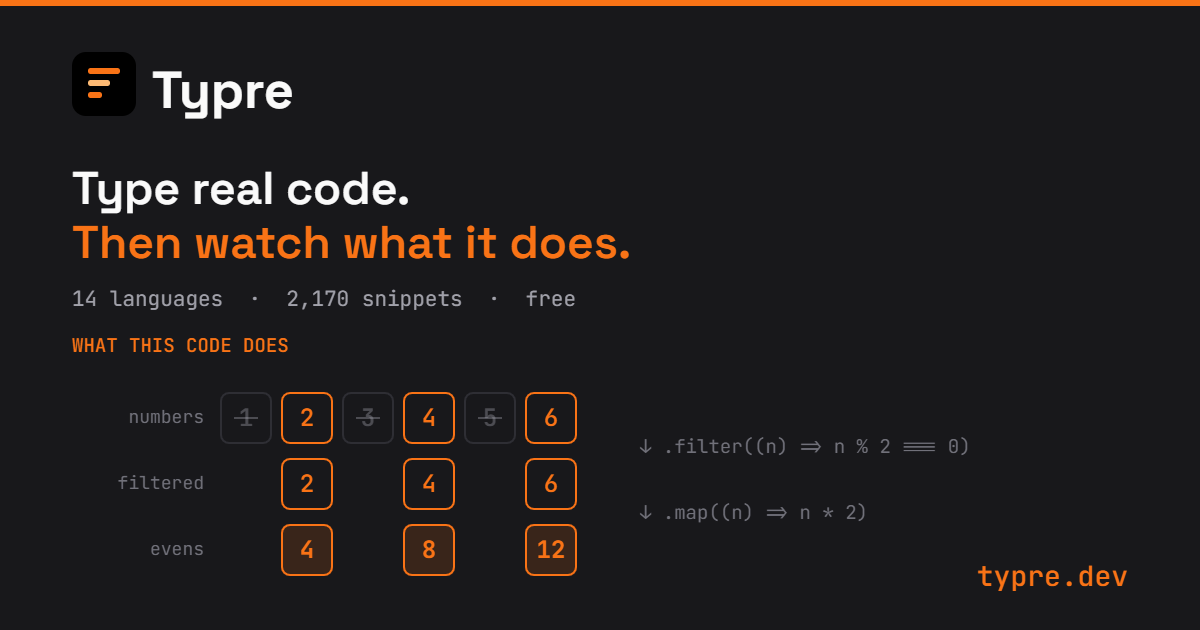
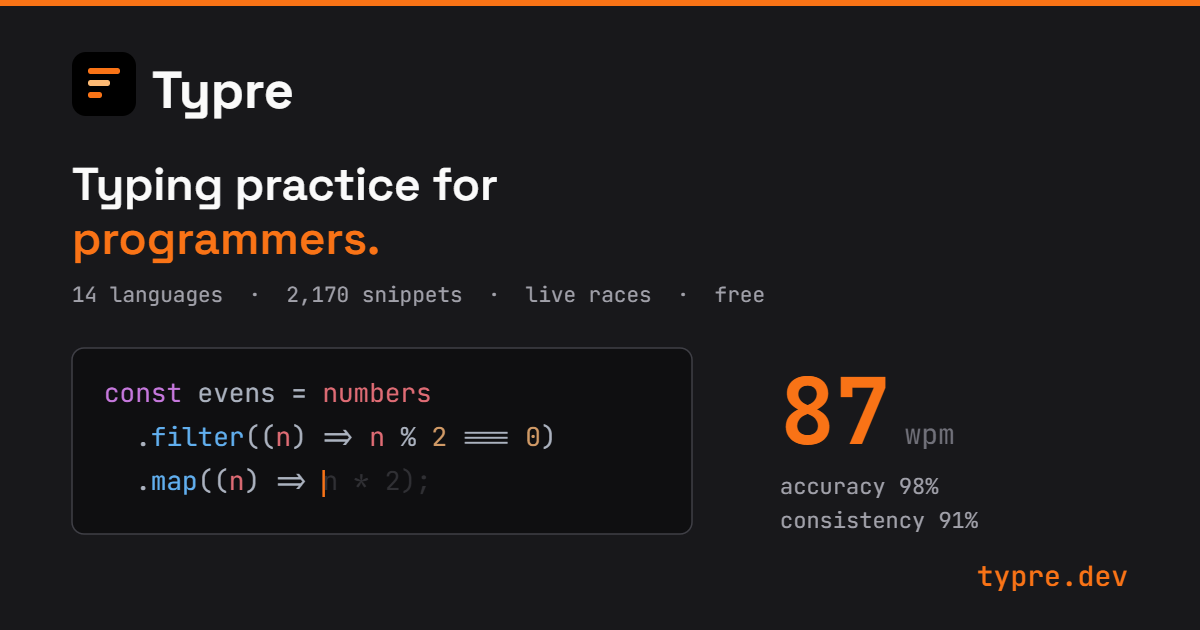
Ảnh chia sẻ link: vẽ đúng thứ app có
Bản trước vẽ hoạt hình "code này làm gì" và tiêu đề "Then watch what it does" —
tính năng đó đã bị bỏ, nên ảnh thành quảng cáo sai: người click vào thấy khác
ảnh, còn tệ hơn là không có ảnh.

Giờ ảnh vẽ vùng gõ code đang gõ DỞ — phần chưa gõ để mờ và xám, có con trỏ cam,
màu syntax theo One Dark Pro (theme mặc định của app) — kèm các số của bảng kết
quả. Ảnh tĩnh mà vẫn nói được "đang gõ" chứ không phải một đoạn code nằm im.

Tiêu đề đổi sang khác biệt thật và còn tồn tại: các trang luyện gõ khác cho gõ
văn xuôi, ở đây gõ code thật.

Ghi luôn quy tắc vào đầu scripts/og-builder.html: chỉ vẽ thứ app THẬT SỰ có.

diff --git a/scripts/og-builder.html b/scripts/og-builder.html
@@ -18,6 +18,9 @@
       Nằm ở scripts/ chứ không phải public/: dev server của Vite vẫn phục vụ file trong
       thư mục gốc, nhưng bản build production thì không mang theo — không để lọt một
       trang lạ lên typre.dev cho Google lập chỉ mục.
+
+      QUY TẮC DUY NHẤT khi sửa ảnh này: chỉ vẽ thứ app THẬT SỰ có. Bản trước từng quảng
+      cáo một tính năng đã bị bỏ, người click vào thấy khác ảnh — tệ hơn là không có ảnh.
     -->
     <link rel="preconnect" href="https://fonts.googleapis.com" />
     <link rel="preconnect" href="https://fonts.gstatic.com" crossorigin />
@@ -58,12 +61,18 @@
       const ORANGE = '#f97316'
       const ORANGE_SOFT = '#fdba74'
       const BG = '#18181b'
+      const CODE_BG = '#0f0f11'
       const ZINC_400 = '#a1a1aa'
       const ZINC_500 = '#71717a'
-      const ZINC_600 = '#52525b'
+      const ZINC_700 = '#3f3f46'
 
-      const CELL = 52
-      const GAP = 9
+      // Bảng màu One Dark Pro — đúng theme mặc định của app, để ảnh trông như ảnh chụp
+      // thật chứ không phải hình vẽ lại.
+      const KW = '#c678dd'
+      const FN = '#61afef'
+      const VAR = '#e06c75'
+      const NUM = '#d19a66'
+      const PUNCT = '#abb2bf'
 
       function roundRect(ctx, x, y, w, h, r) {
         ctx.beginPath()
@@ -92,54 +101,68 @@
       }
 
       /**
-       * Một ô của hoạt hình. `tone`: idle | keep | result | drop.
-       * `drop` có gạch ngang — chính chỗ này cho người xem hiểu đây là code ĐANG chạy,
-       * không phải ảnh chụp một giao diện tĩnh.
+       * Bài đang gõ dở. `t: false` = chưa gõ tới.
+       *
+       * Phần chưa gõ để mờ và xám, phần đã gõ giữ màu syntax — đúng cách app hiển thị,
+       * và cũng là cách duy nhất để một ảnh TĨNH nói được "đang gõ", không phải ảnh
+       * chụp một đoạn code nằm im.
        */
-      function drawCell(ctx, x, y, text, tone) {
-        const stroke = tone === 'idle' || tone === 'drop' ? ZINC_600 : ORANGE
-        ctx.globalAlpha = tone === 'drop' ? 0.38 : 1
+      const CODE_LINES = [
+        [
+          { s: 'const', c: KW, t: true },
+          { s: ' evens = ', c: PUNCT, t: true },
+          { s: 'numbers', c: VAR, t: true },
+        ],
+        [
+          { s: '  .', c: PUNCT, t: true },
+          { s: 'filter', c: FN, t: true },
+          { s: '((', c: PUNCT, t: true },
+          { s: 'n', c: VAR, t: true },
+          { s: ') => ', c: PUNCT, t: true },
+          { s: 'n', c: VAR, t: true },
+          { s: ' % ', c: PUNCT, t: true },
+          { s: '2', c: NUM, t: true },
+          { s: ' === ', c: PUNCT, t: true },
+          { s: '0', c: NUM, t: true },
+          { s: ')', c: PUNCT, t: true },
+        ],
+        [
+          { s: '  .', c: PUNCT, t: true },
+          { s: 'map', c: FN, t: true },
+          { s: '((', c: PUNCT, t: true },
+          { s: 'n', c: VAR, t: true },
+          { s: ') => ', c: PUNCT, t: true, caretAfter: true },
+          { s: 'n', c: VAR, t: false },
+          { s: ' * ', c: PUNCT, t: false },
+          { s: '2', c: NUM, t: false },
+          { s: ');', c: PUNCT, t: false },
+        ],
+      ]
 
-        if (tone === 'result') {
-          ctx.fillStyle = 'rgba(249,115,22,0.15)'
-          roundRect(ctx, x, y, CELL, CELL, 8)
-          ctx.fill()
-        }
+      function drawCode(ctx, x, y, lineHeight) {
+        ctx.font = '400 26px "JetBrains Mono", monospace'
+        ctx.textAlign = 'left'
+        ctx.textBaseline = 'alphabetic'
 
-        ctx.strokeStyle = stroke
-        ctx.lineWidth = 2
-        roundRect(ctx, x + 1, y + 1, CELL - 2, CELL - 2, 8)
-        ctx.stroke()
+        CODE_LINES.forEach((line, row) => {
+          let penX = x
+          const penY = y + row * lineHeight
 
-        ctx.fillStyle = tone === 'idle' || tone === 'drop' ? ZINC_400 : ORANGE
-        ctx.font = `${tone === 'result' ? 700 : 500} 24px "JetBrains Mono", monospace`
-        ctx.textAlign = 'center'
-        ctx.textBaseline = 'middle'
-        ctx.fillText(text, x + CELL / 2, y + CELL / 2 + 1)
+          for (const seg of line) {
+            ctx.globalAlpha = seg.t ? 1 : 0.34
+            ctx.fillStyle = seg.t ? seg.c : ZINC_500
+            ctx.fillText(seg.s, penX, penY)
+            penX += ctx.measureText(seg.s).width
 
-        if (tone === 'drop') {
-          ctx.strokeStyle = ZINC_400
-          ctx.lineWidth = 2
-          ctx.beginPath()
-          ctx.moveTo(x + 14, y + CELL / 2)
-          ctx.lineTo(x + CELL - 14, y + CELL / 2)
-          ctx.stroke()
-        }
+            if (seg.caretAfter) {
+              ctx.globalAlpha = 1
+              ctx.fillStyle = ORANGE
+              ctx.fillRect(penX, penY - 20, 2.5, 27)
+            }
+          }
+        })
 
         ctx.globalAlpha = 1
-      }
-
-      function drawLane(ctx, x, y, label, cells) {
-        ctx.fillStyle = ZINC_500
-        ctx.font = '400 18px "JetBrains Mono", monospace'
-        ctx.textAlign = 'right'
-        ctx.textBaseline = 'middle'
-        ctx.fillText(label, x - 16, y + CELL / 2)
-
-        cells.forEach((cell, i) => {
-          if (cell === null) return
-          drawCell(ctx, x + i * (CELL + GAP), y, String(cell.v), cell.tone)
-        })
       }
 
       function draw() {
@@ -160,66 +183,56 @@
         ctx.font = '700 52px "Space Grotesk", sans-serif'
         ctx.fillText('Typre', 152, 108)
 
+        // Khác biệt thật và còn tồn tại: các trang luyện gõ khác cho gõ văn xuôi, ở đây
+        // gõ code thật — dấu ngoặc, toán tử, thụt lề, đúng những ký tự làm chậm tay khi
+        // lập trình.
         ctx.fillStyle = '#fafafa'
         ctx.font = '600 46px "Space Grotesk", sans-serif'
-        ctx.fillText('Type real code.', 72, 204)
+        ctx.fillText('Typing practice for', 72, 200)
         ctx.fillStyle = ORANGE
-        ctx.fillText('Then watch what it does.', 72, 258)
+        ctx.fillText('programmers.', 72, 254)
 
         ctx.fillStyle = ZINC_400
         ctx.font = '400 21px "JetBrains Mono", monospace'
-        ctx.fillText('14 languages  ·  2,170 snippets  ·  free', 72, 306)
+        ctx.fillText('14 languages  ·  2,170 snippets  ·  live races  ·  free', 72, 302)
 
-        // Nhãn giống hệt trong app: ai đã dùng Typre nhận ra ngay đây là thẻ hiện sau
-        // khi gõ xong, không phải một hình minh hoạ dựng riêng cho ảnh quảng cáo.
-        ctx.fillStyle = ORANGE
-        ctx.font = '500 19px "JetBrains Mono", monospace'
-        ctx.fillText('WHAT THIS CODE DOES', 72, 352)
+        // Khung code: nền tối hơn + viền, đúng như vùng gõ trong app.
+        const cardX = 72
+        const cardY = 348
+        const cardW = 620
+        const cardH = 186
 
-        // Hoạt hình filter+map ở trạng thái cuối: ba hàng thẳng cột nói được cả câu
-        // chuyện "lọc rồi nhân đôi" trong một hình tĩnh.
-        const laneX = 220
-        const laneY = 392
-        const LANE_GAP = 66
-        const evens = [null, 2, null, 4, null, 6]
+        ctx.fillStyle = CODE_BG
+        roundRect(ctx, cardX, cardY, cardW, cardH, 12)
+        ctx.fill()
+        ctx.strokeStyle = ZINC_700
+        ctx.lineWidth = 1.5
+        roundRect(ctx, cardX, cardY, cardW, cardH, 12)
+        ctx.stroke()
 
-        drawLane(ctx, laneX, laneY, 'numbers', [
-          { v: 1, tone: 'drop' },
-          { v: 2, tone: 'keep' },
-          { v: 3, tone: 'drop' },
-          { v: 4, tone: 'keep' },
-          { v: 5, tone: 'drop' },
-          { v: 6, tone: 'keep' },
-        ])
+        drawCode(ctx, cardX + 32, cardY + 54, 44)
 
-        drawLane(
-          ctx,
-          laneX,
-          laneY + LANE_GAP,
-          'filtered',
-          evens.map((v) => (v === null ? null : { v, tone: 'keep' })),
-        )
+        // Cột phải: đúng các số bảng kết quả của app hiện.
+        const statX = 780
 
-        drawLane(
-          ctx,
-          laneX,
-          laneY + LANE_GAP * 2,
-          'evens',
-          evens.map((v) => (v === null ? null : { v: v * 2, tone: 'result' })),
-        )
-
-        // Hai phép toán đặt ngang đúng khe giữa các hàng, như mũi tên trong app: mắt tự
-        // nối "hàng trên + phép này = hàng dưới". Đồng thời lấp nửa phải đang trống.
-        ctx.fillStyle = ZINC_500
-        ctx.font = '400 19px "JetBrains Mono", monospace'
         ctx.textAlign = 'left'
-        ctx.fillText('↓ .filter((n) => n % 2 === 0)', 640, laneY + CELL + 4)
-        ctx.fillText('↓ .map((n) => n * 2)', 640, laneY + LANE_GAP + CELL + 4)
+        ctx.fillStyle = ORANGE
+        ctx.font = '700 92px "JetBrains Mono", monospace'
+        ctx.fillText('87', statX, cardY + 96)
+
+        const wpmX = statX + ctx.measureText('87').width + 14
+        ctx.fillStyle = ZINC_500
+        ctx.font = '400 28px "JetBrains Mono", monospace'
+        ctx.fillText('wpm', wpmX, cardY + 96)
+
+        ctx.fillStyle = ZINC_400
+        ctx.font = '400 22px "JetBrains Mono", monospace'
+        ctx.fillText('accuracy 98%', statX, cardY + 146)
+        ctx.fillText('consistency 91%', statX, cardY + 180)
 
         ctx.fillStyle = ORANGE
         ctx.font = '500 28px "JetBrains Mono", monospace'
         ctx.textAlign = 'right'
-        ctx.textBaseline = 'alphabetic'
         ctx.fillText('typre.dev', W - 72, H - 44)
       }
 

diff --git a/index.html b/index.html
@@ -47,8 +47,11 @@
     <!--
       1200x630 là cỡ mọi nền tảng đều nhận: Twitter/X, Facebook, LinkedIn, Discord,
       Slack, Zalo. Ảnh cũ 208x208 ra ô thumbnail bé xíu bên cạnh dòng chữ, nhìn như
-      link rác — mà thứ đáng khoe nhất (hoạt hình "code này làm gì") thì không ai
-      thấy. Ảnh này vẽ luôn hoạt hình vào trong.
+      link rác.
+
+      Ảnh vẽ vùng gõ code đang gõ dở (phần chưa gõ để mờ + con trỏ cam) và các số của
+      bảng kết quả — CHỈ vẽ thứ app thật sự có. Bản trước từng vẽ một tính năng sau đó
+      bị bỏ, người click vào thấy khác ảnh, còn tệ hơn là không có ảnh.
 
       Sinh lại bằng scripts/og-builder.html (mở qua dev server) — vẽ bằng canvas trong
       trình duyệt để có đúng font app đang dùng.
@@ -56,7 +59,10 @@
     <meta property="og:image" content="https://www.typre.dev/og.png" />
     <meta property="og:image:width" content="1200" />
     <meta property="og:image:height" content="630" />
-    <meta property="og:image:alt" content="Typre — type real code, then watch what it does" />
+    <meta
+      property="og:image:alt"
+      content="Typre — typing practice for programmers: a JavaScript snippet being typed, 87 wpm"
+    />
     <meta name="twitter:card" content="summary_large_image" />
     <meta name="twitter:title" content="Typre — practice typing code in 14 languages" />
     <meta
